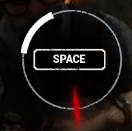
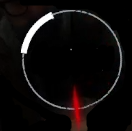
Added new tracking algorithm

diff --git a/main.cpp b/main.cpp
@@ -10,6 +10,10 @@
 #include <vector>
 #include <stdlib.h> /* atexit */
 #include <stack>
+#include <map>
+#include <windows.h>
+#include <gdiplus.h>
+#include <time.h>
 
 #define WINVER 0x0500
 
@@ -97,7 +101,7 @@ Mat ShowBlackCircle(const cv::Mat &img, cv::Point cp, int radius, int thik)
     return img;
 }
 
-std::vector<PointWithColor> safeWhitePixels(Mat img)
+std::vector<PointWithColor> saveWhitePixels(Mat img)
 {
     std::vector<PointWithColor> whitePixels;
     for (int y = 0; y < img.rows; y++)
@@ -239,91 +243,231 @@ int FindBlobs(cv::Mat &image, std::vector<cv::Rect> &out, float minArea)
         }
     return blobId;
 }
+double whitePercentage(cv::Mat img)
+{
+    double whiteCount = 0, allPixelsCount = img.rows * img.cols;
+    for (int y = 0; y < img.rows; y++)
+    {
+        for (int x = 0; x < img.cols; x++)
+        {
+            auto color = img.at<Vec3b>(Point(x, y));
+            if (color[0] > 250 && color[1] > 250 && color[2] > 250)
+            {
+                whiteCount++;
+            }
+        }
+    }
+    return whiteCount * 100 / allPixelsCount;
+}
+
+cv::Rect findMOstWhiteRect(std::vector<cv::Rect> rects, cv::Mat img)
+{
+    double maxWhitePercentage = 0;
+    cv::Rect maxWhiteRect;
+    for (auto &rect : rects)
+    {
+        double percentage = whitePercentage(img(rect));
+        if (percentage > maxWhitePercentage)
+        {
+            maxWhitePercentage = percentage;
+            maxWhiteRect = rect;
+        }
+    }
+    return maxWhiteRect;
+}
+
+Mat takeScreenshot()
+{
+    Mat h;
+    RECT rc;
+    // HWND hwnd = GetShellWindow();
+    HWND hShellWnd = GetShellWindow();
+    HWND hDefView = FindWindowEx(hShellWnd, NULL, _T("SHELLDLL_DefView"), NULL);
+    HWND hwnd = FindWindowEx(hDefView, NULL, _T("SysListView32"), NULL);
+    if (hwnd == NULL)
+    {
+        cout << "it can't find any 'note' window" << endl;
+        return h;
+    }
+    GetClientRect(hwnd, &rc);
+
+    // create
+    HDC hdcScreen = GetDC(NULL);
+    HDC hdc = CreateCompatibleDC(hdcScreen);
+    HBITMAP hbmp = CreateCompatibleBitmap(hdcScreen,
+                                          rc.right - rc.left, rc.bottom - rc.top);
+    SelectObject(hdc, hbmp);
+
+    // Print to memory hdc
+    PrintWindow(hwnd, hdc, PW_CLIENTONLY);
+
+    // copy to clipboard
+    OpenClipboard(NULL);
+    EmptyClipboard();
+    SetClipboardData(CF_BITMAP, hbmp);
+    CloseClipboard();
+
+    // release
+    DeleteDC(hdc);
+    DeleteObject(hbmp);
+    ReleaseDC(NULL, hdcScreen);
+
+    cout << "success copy to clipboard, please paste it to the 'mspaint'" << endl;
+    return h;
+}
 
 int main(int argc, char **argv)
 {
 
-    // HWND hwndDesktop = GetDesktopWindow();
+    HWND hwndDesktop = GetDesktopWindow();
+    Mat srcConfig = hwnd2mat(hwndDesktop);
+    const int squareSideLength = calculateSquare(srcConfig.size().width, srcConfig.size().height, widthSquare, heightSquare);
+    const int realRadius = calculateRadius(srcConfig.size().width, srcConfig.size().height, widthRad, heightRad);
 
-    // std::vector<PointWithColor> lastWhite;
-    // bool first = true, pressed = false;
-    // double lastPressTime = 0, lastTimeCheckBoxAppear = 0;
-    // int whitePixelsChangeCount = 0;
+    const Rect crop_region((srcConfig.size().width / 2) - (squareSideLength / 2), srcConfig.size().height / 2 - (squareSideLength / 2), squareSideLength, squareSideLength);
+    auto cropedConfig = srcConfig(crop_region);
+    const Point CircleCenter = Point(cropedConfig.size().width / 2, cropedConfig.size().height / 2);
 
-    // Mat srcConfig = hwnd2mat(hwndDesktop);
-    // const int squareSideLength = calculateSquare(srcConfig.size().width, srcConfig.size().height, widthSquare, heightSquare);
-    // const int realRadius = calculateRadius(srcConfig.size().width, srcConfig.size().height, widthRad, heightRad);
+    Mat img;
+    std::vector<PointWithColor> lastWhite;
+    bool checkBoxAppear = false;
 
-    // const Rect crop_region((srcConfig.size().width / 2) - (squareSideLength / 2), srcConfig.size().height / 2 - (squareSideLength / 2), squareSideLength, squareSideLength);
-    // auto cropedConfig = srcConfig(crop_region);
-    // const Point CircleCenter = Point(cropedConfig.size().width / 2, cropedConfig.size().height / 2);
+    bool created = false;
+    bool first2 = true;
+    cv::Rect mostWhite;
+    unsigned long long lastCheckBox = 0;
 
-    // namedWindow("output", WINDOW_NORMAL);
-
-    // auto t1 = clock();
-    // start=clock();
-    // Mat src = hwnd2mat(hwndDesktop);
-    std::string image_path = samples::findFile("C:/Users/dolph/OneDrive/Desktop/DBD_Auto_Checker/Untitled.png");
-    Mat img = imread(image_path, IMREAD_COLOR);
-
-
-    // Mat croped = src(Range(src.size().width / 2 - squareSide/2, src.size().width / 2 + squareSide/2),Range(src.size().height/2,src.size().height/2 + squareSide)); // Slicing to crop the image
-    std::vector<cv::Rect> h;
-    FindBlobs(img,h, 3);
-
-    for(int i = 0; i < h.size(); i++)
+    // namedWindow("config", WINDOW_NORMAL);
+    while (true)
     {
-        rectangle(img, h[i], Scalar(0,0,255), 2, 8, 0);
+        auto t1 = clock();
+        // hwndDesktop = GetDesktopWindow();
+        // img = hwnd2mat(hwndDesktop);
+
+        img = takeScreenshot();
+        imshow("config", img);
+
+        std::cout << "Time: " << (clock() - t1) << std::endl;
+        waitKey(10000000);
+        exit(0);
+
+        img = img(crop_region);
+
+        img = ShowBlackCircle(img, CircleCenter, realRadius, FILLED);
+        img = ShowBlackCircle(img, CircleCenter, realRadius + spacing + 50, 100);
+
+        if (!created)
+        {
+            auto currentPixels = saveWhitePixels(img);
+            if (!currentPixels.empty())
+            {
+                std::cout << "CheckBox appear" << std::endl;
+
+                std::vector<cv::Rect> h;
+                FindBlobs(img, h, 3);
+
+                mostWhite = findMOstWhiteRect(h, img);
+
+                created = true;
+                lastCheckBox = clock();
+            }
+        }
+        else
+        {
+            if (clock() - lastCheckBox >= 3000)
+            {
+                std::cout << "TIMER" << std::endl;
+                created = false;
+            }
+            else
+            {
+                Mat submat = img(mostWhite);
+                cv::MatConstIterator_<cv::Vec3b> it; // = src_it.begin<cv::Vec3b>();
+                for (it = submat.begin<cv::Vec3b>(); it != submat.end<cv::Vec3b>(); ++it)
+                {
+
+                    if ((*it)[0] < 20 && (*it)[1] < 20 && (*it)[2] > 90)
+                    {
+                        std::cout << "RED" << std::endl;
+                        press();
+                        waitKey(1000);
+                        created = false;
+                        break;
+                    }
+                }
+                // std::cout << std::endl;
+                // imshow("config", submat);
+                // waitKey(1);
+            }
+        }
+        // imshow("output", img);
+        // waitKey(1);
     }
-    // specifies the region of interest in Rectangle form
-
-    // auto croped = src(crop_region);
-    // // croped = constrast(alpha, beta, croped);
-
-    // croped = ShowBlackCircle(croped, CircleCenter, realRadius, FILLED);
-    // ;
-    // croped = ShowBlackCircle(croped, CircleCenter, realRadius + spacing + 50, 100);
-
-    // auto currentPixels = safeWhitePixels(croped);
-    // if (!currentPixels.empty())
-    // {
-    //     if (first)
-    //     {
-    //         lastWhite = currentPixels;
-    //         first = false;
-    //     }
-    //     else
-    //     {
-    //         if (!compareWhitePixels(lastWhite, currentPixels))
-    //         {
-    //             if (whitePixelsChangeCount > 0)
-    //             {
-    //                 std::cout << "Press" << std::endl;
-    //                 press();
-    //                 lastPressTime = clock();
-
-    //                 whitePixelsChangeCount = 0;
-    //                 pressed = true;
-    //             }
-    //             else
-    //             {
-    //                 whitePixelsChangeCount++;
-    //             }
-    //         }
-
-    //         lastWhite = currentPixels;
-    //     }
-    // }
-
-    // if (clock() - lastPressTime > 1500 && pressed)
-    // {
-    //     whitePixelsChangeCount = 0;
-    //     pressed = false;
-    // }
-
-    
-    imshow("Display window", img);
-    int k = waitKey(0); // Wait for a keystroke in the window
 
     return 0;
 }
+
+// Mat croped = src(Range(src.size().width / 2 - squareSide/2, src.size().width / 2 + squareSide/2),Range(src.size().height/2,src.size().height/2 + squareSide)); // Slicing to crop the image
+// std::vector<cv::Rect> h;
+// FindBlobs(img, h, 3);
+
+// // for(int i = 0; i < h.size(); i++)
+// // {
+// //     rectangle(img, h[i], Scalar(255,0,0), 2, 8, 0);
+// // }
+
+// cv::Rect mostWhite = findMOstWhiteRect(h, img);
+// // rectangle(img, mostWhite, Scalar(0,255,0), 2, 8, 0);
+// auto newImg = img(mostWhite);
+// // specifies the region of interest in Rectangle form
+// map<Vec3b, int, lessVec3b> palette = getPalette(newImg);
+// int areanewImg = img.rows * img.cols;
+
+// for (auto color : palette)
+// {
+//     cout << "Color: " << color.first << " \t - Area: " << 100.f * float(color.second) / float(areanewImg) << "%" << endl;
+// }
+
+// auto croped = src(crop_region);
+// // croped = constrast(alpha, beta, croped);
+
+// auto currentPixels = safeWhitePixels(croped);
+// if (!currentPixels.empty())
+// {
+//     if (first)
+//     {
+//         lastWhite = currentPixels;
+//         first = false;
+//     }
+//     else
+//     {
+//         if (!compareWhitePixels(lastWhite, currentPixels))
+//         {
+//             if (whitePixelsChangeCount > 0)
+//             {
+//                 std::cout << "Press" << std::endl;
+//                 press();
+//                 lastPressTime = clock();
+
+//                 whitePixelsChangeCount = 0;
+//                 pressed = true;
+//             }
+//             else
+//             {
+//                 whitePixelsChangeCount++;
+//             }
+//         }
+
+//         lastWhite = currentPixels;
+//     }
+// }
+
+// if (clock() - lastPressTime > 1500 && pressed)
+// {
+//     whitePixelsChangeCount = 0;
+//     pressed = false;
+// }
+
+// imshow("Full image", img);
+// imshow("Croped image", newImg);
+// int k = waitKey(0); // Wait for a keystroke in the window
